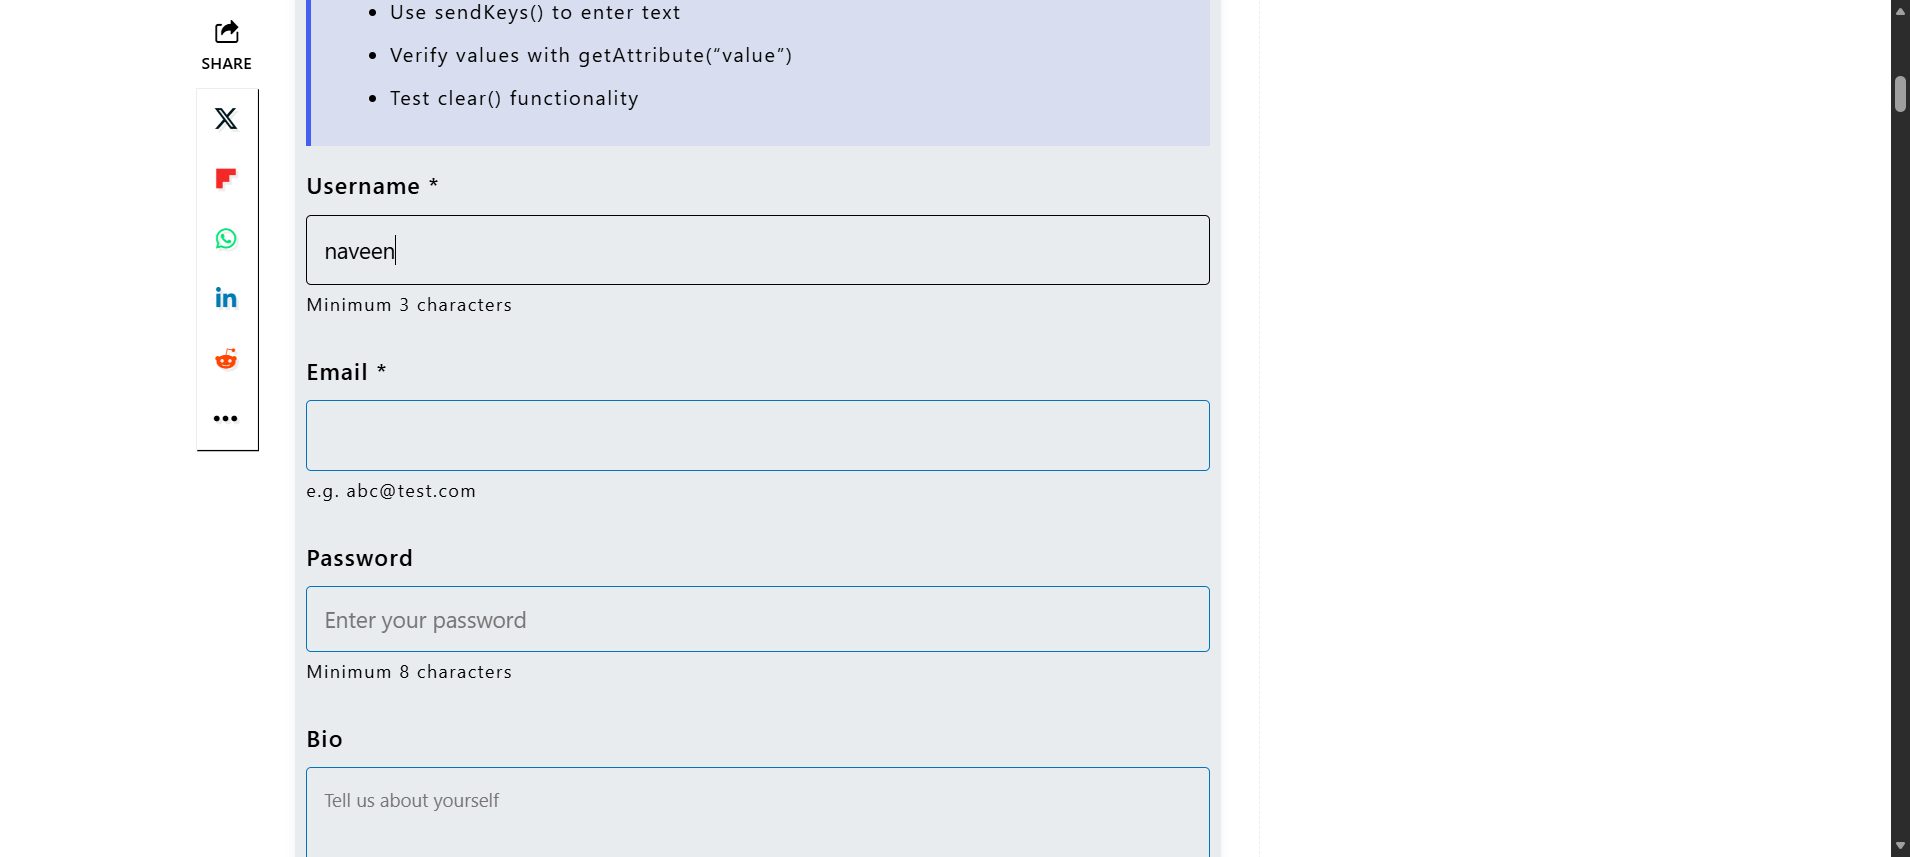
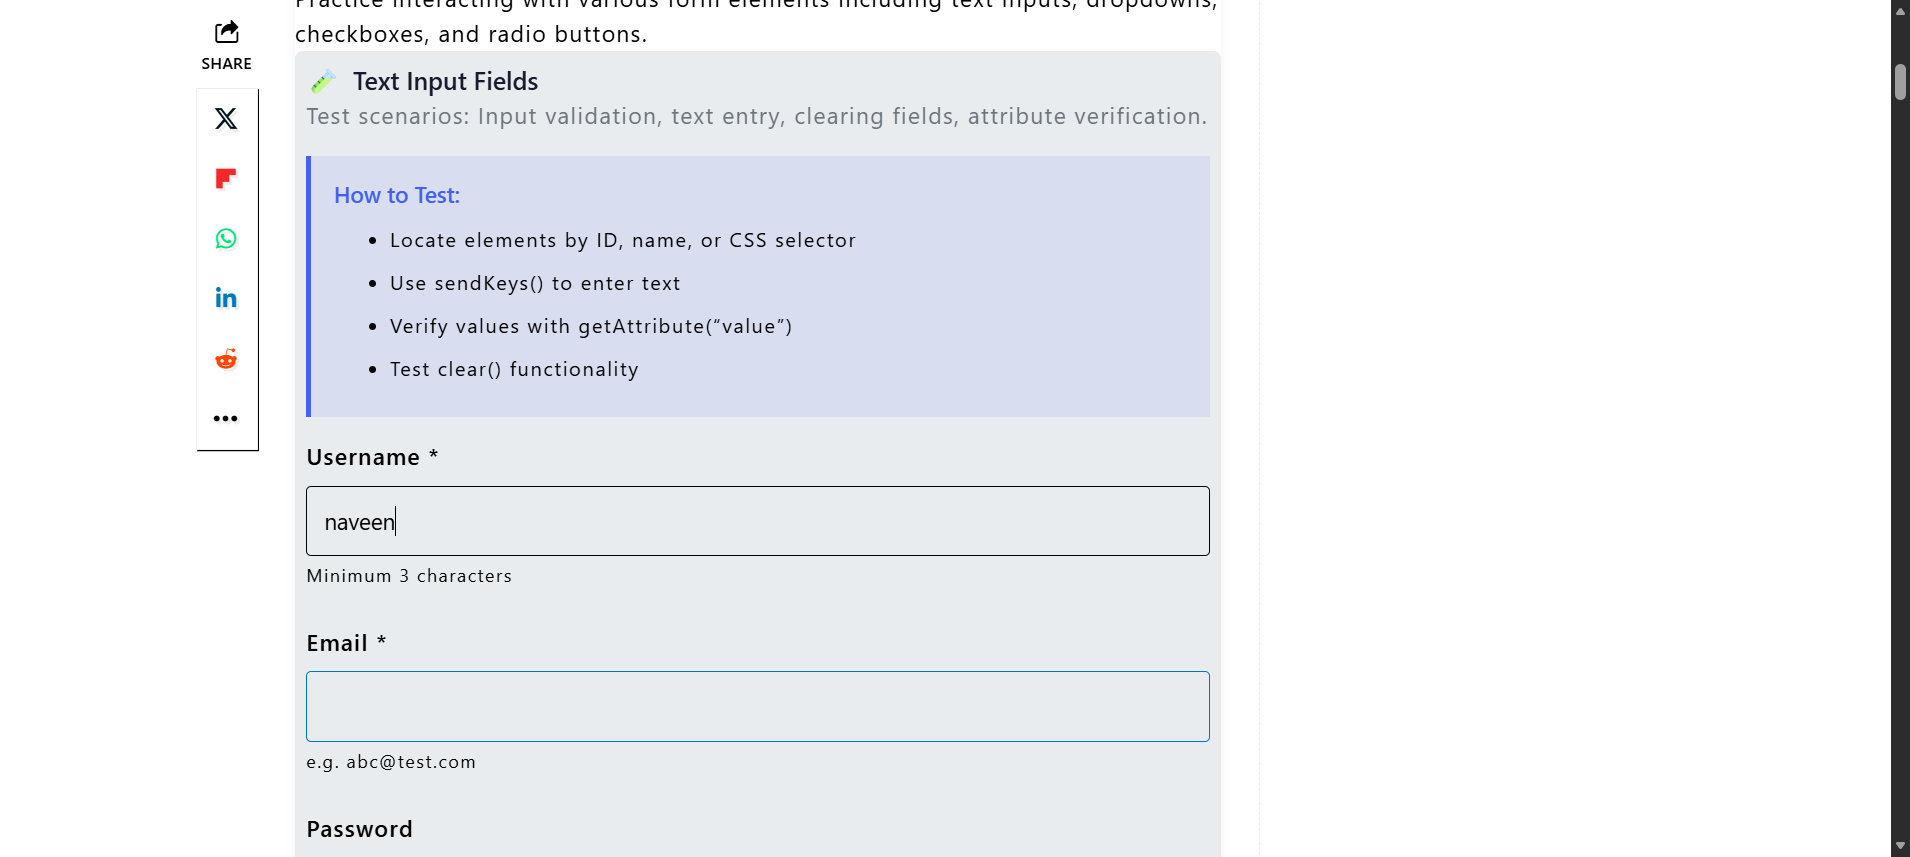
working on action chains

diff --git a/actionchains.py b/actionchains.py
@@ -1,15 +1,50 @@
 import time as t
 from selenium import webdriver
 from selenium.webdriver import ActionChains
+from selenium.webdriver.common import actions
 from selenium.webdriver.common.keys import Keys
 from selenium.webdriver.common.by import By
 a=webdriver.Edge()
 a.maximize_window()
-a.get("https://demoqa.com/menu")
+'''a.get("https://demoqa.com/menu")
 t.sleep(2)
 menu=a.find_element(By.XPATH,"//*[@id='nav']/li[2]/a")
-actions=ActionChains(a)
-actions.move_to_element(menu)\
-.click()\
-.perform()
+actions=ActionChains(a)'''
+#move to element
+'''actions.move_to_element(menu).perform()
+t.sleep(3)'''
+#click()
+'''actions.move_to_element(menu)\
+    .click()\
+    .perform()
+t.sleep(3)'''
+#right click
+'''a.get("https://demoqa.com/buttons")
+t.sleep(2)'''
+'''button=a.find_element(By.XPATH,"//*[@id='rightClickBtn']")
+act=ActionChains(a)
+act.context_click(button).perform()
+t.sleep(3)'''
+#double click
+'''button=a.find_element(By.XPATH,"//*[@id='doubleClickBtn']")
+act=ActionChains(a)
+act.double_click(button).perform()'''
+#hold and release
+'''a.get("https://jqueryui.com/droppable/")
+t.sleep(2)
+button=a.find_element(By.ID,value="draggable")
+act=ActionChains(a)
+act.click_and_hold(button)\
+    .release(button)\
+    .perform()
+t.sleep(3)'''#not performing
+#drag and drop
+a.get("https://jqueryui.com/droppable/")
+t.sleep(2)
+'''a.switch_to.frame(0)#switching to iframe
+act=ActionChains(a)
+source=a.find_element(By.XPATH,"//*[@id='draggable']")
+dest=a.find_element(By.XPATH,"//*[@id='droppable']")
+act.drag_and_drop(source,dest).perform()
 t.sleep(3)
+a.switch_to.default_content()#returing to normal frame'''
